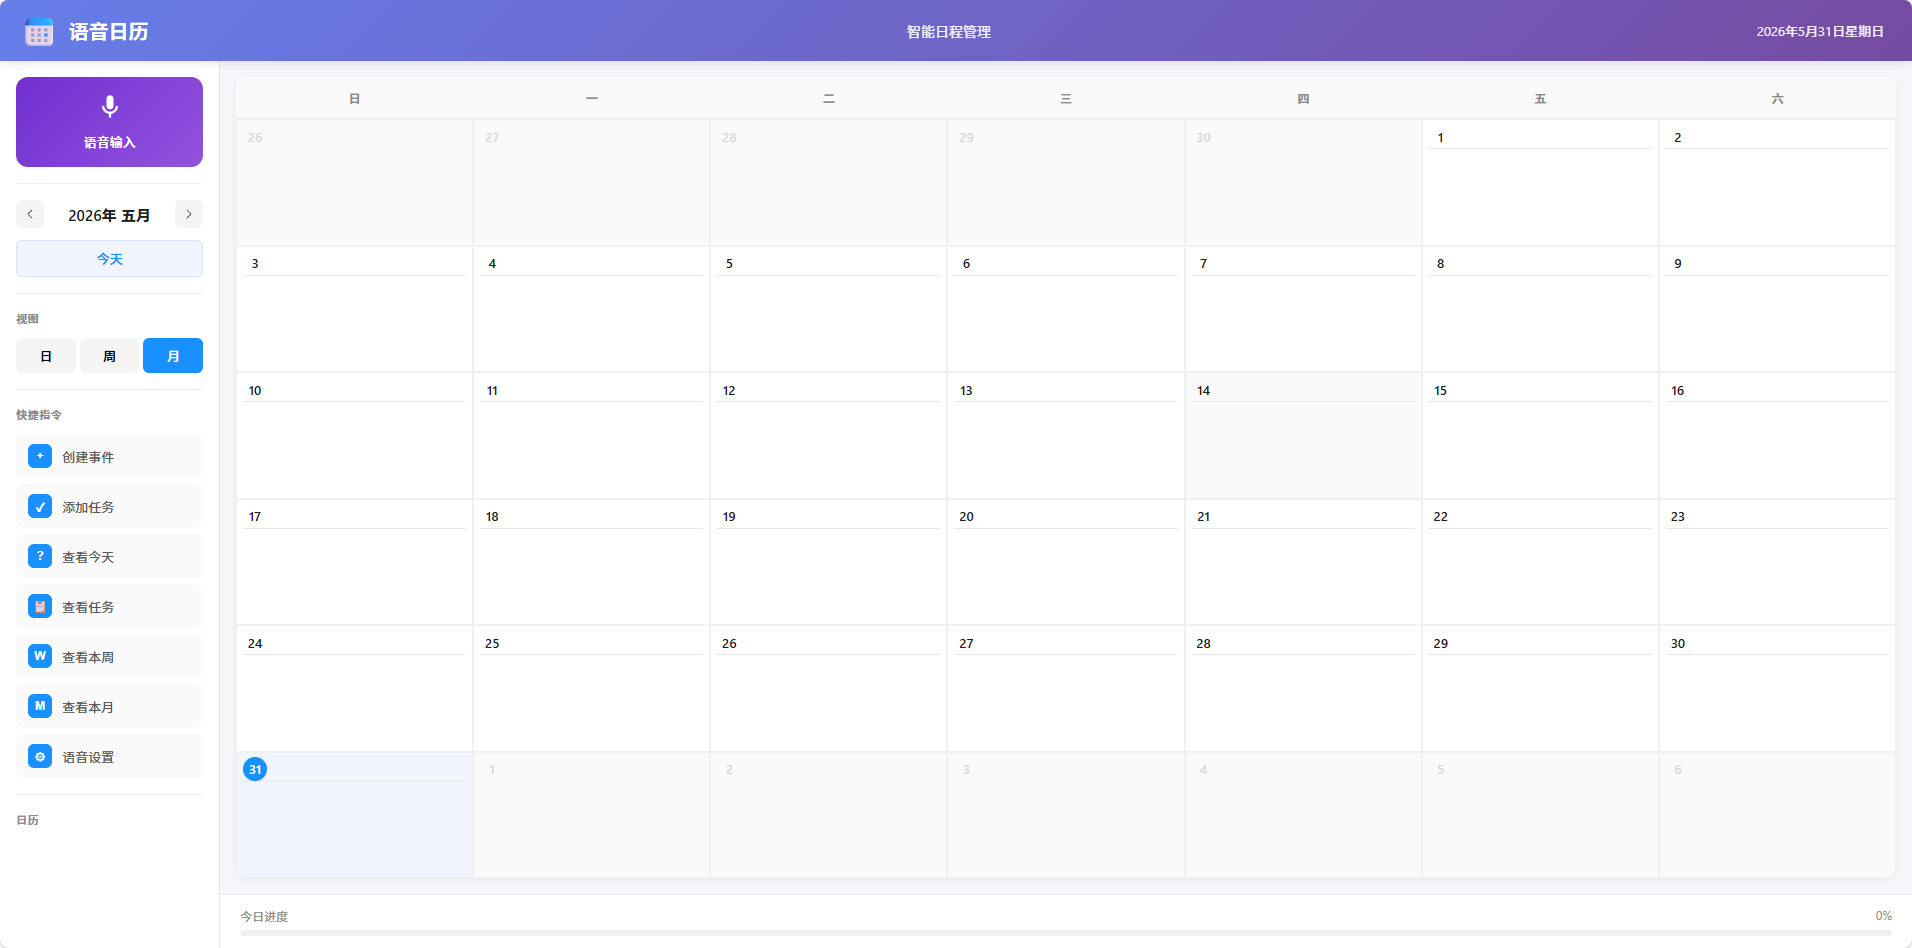
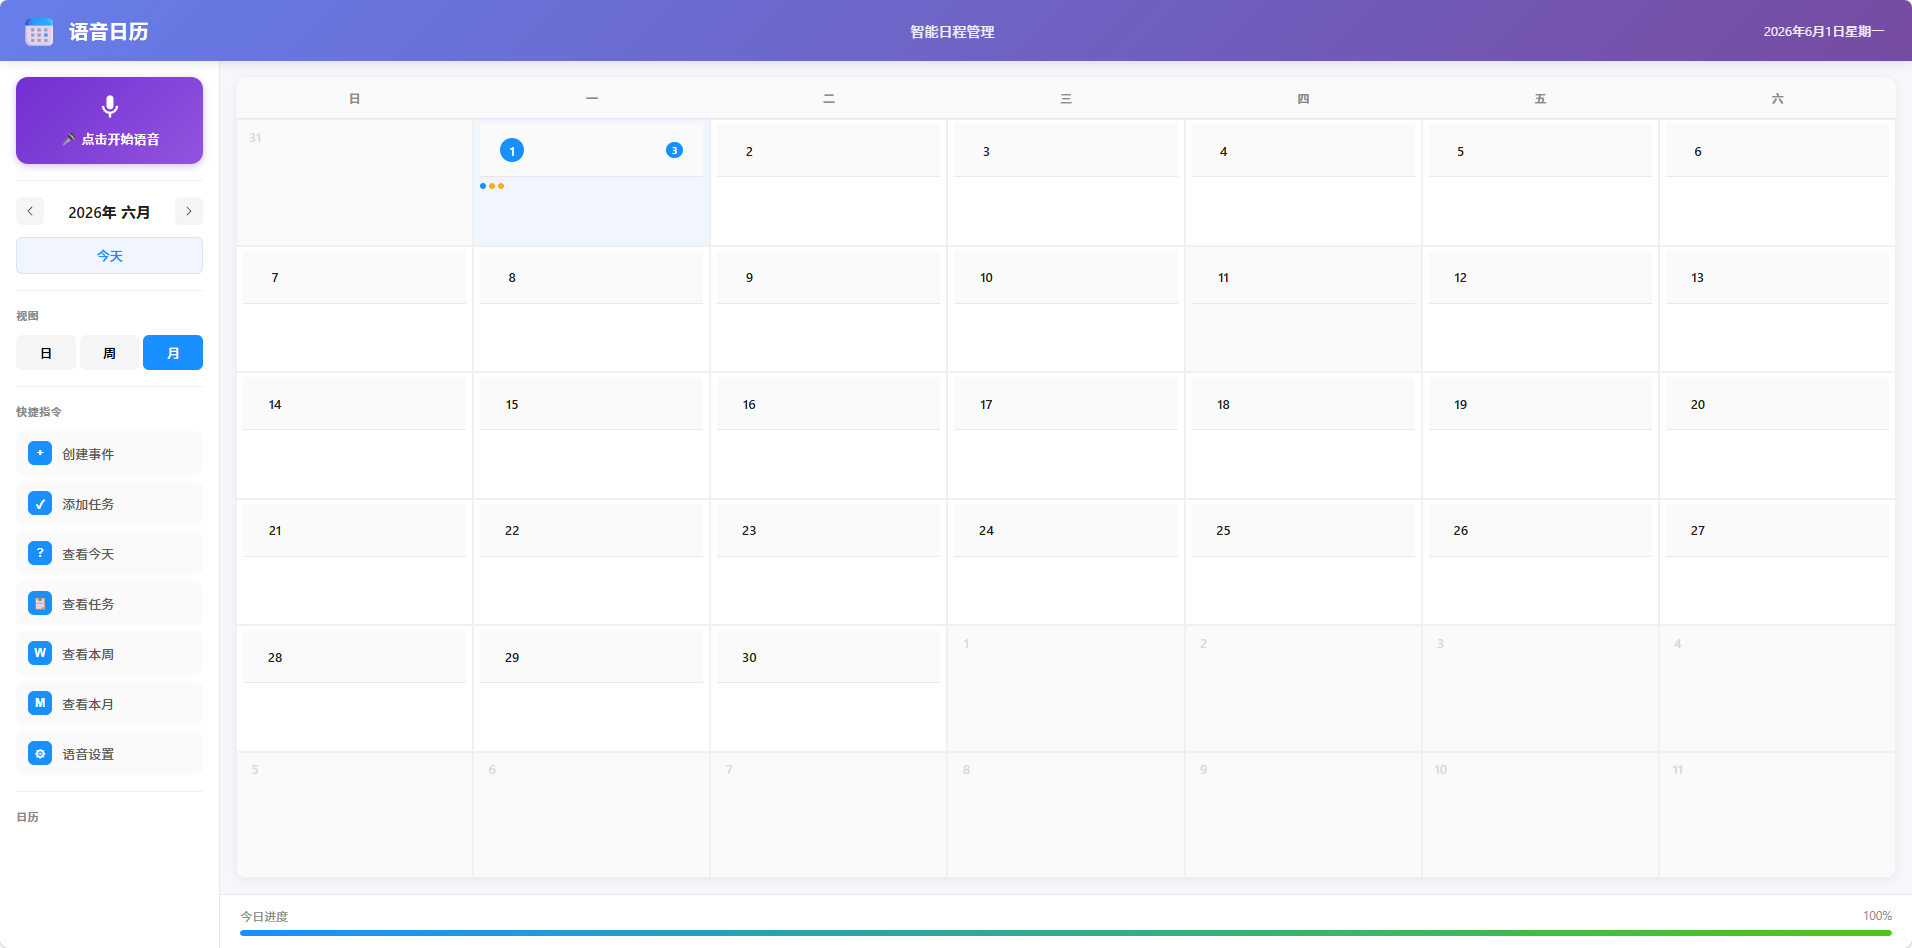
fix: 修复表单验证错误提示不可见导致'无法保存'
根因: EventModal/TodoModal使用error-message/has-error/input-error等CSS类,
但App.css中没有这些类的样式定义, 导致表单验证失败时错误信息不可见,
用户点击'创建'看似无反应, 实际是验证未通过但无提示。

修复: 添加.input-error(红色边框+阴影), .has-error(红色标签),
.error-message(红色提示文字+滑入动画) 样式

diff --git a/frontend/src/App.css b/frontend/src/App.css
@@ -1497,6 +1497,24 @@ body {
   cursor: not-allowed;
 }
 
+/* Form validation errors */
+.input-error {
+  border-color: #ff4d4f !important;
+  box-shadow: 0 0 0 2px rgba(255, 77, 79, 0.15) !important;
+}
+
+.has-error label {
+  color: #ff4d4f;
+}
+
+.error-message {
+  display: block;
+  color: #ff4d4f;
+  font-size: 12px;
+  margin-top: 4px;
+  animation: slideUp 0.2s ease-out;
+}
+
 /* Priority Selector */
 .priority-selector {
   display: flex;